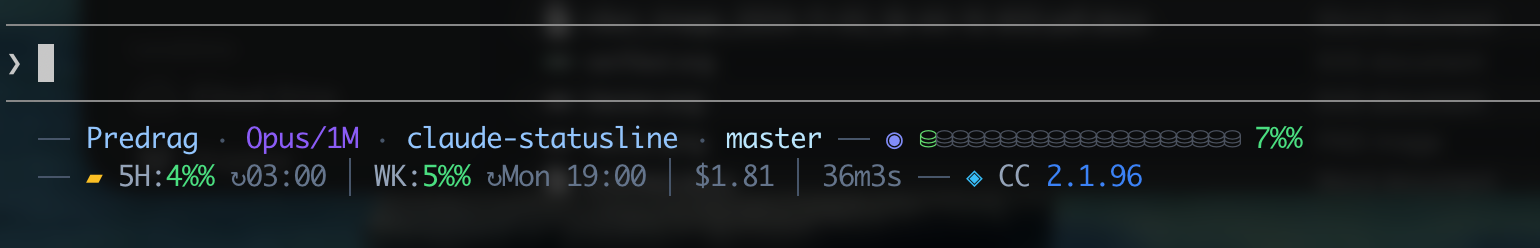
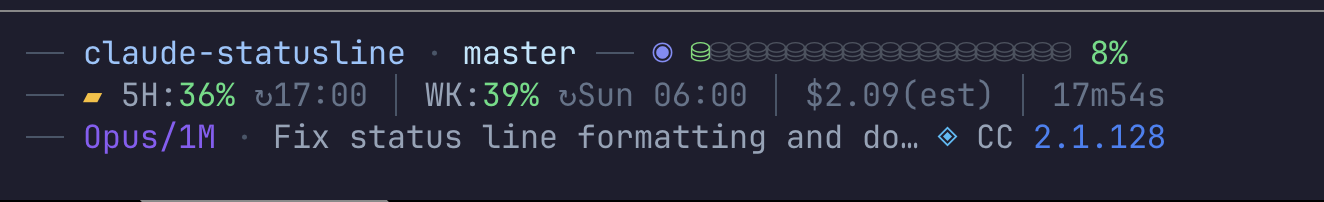
Session name is auto-truncated with ellipsis so line 3 width matches line 2, producing a clean rectangular block regardless of session name length.

diff --git a/README.md b/README.md
@@ -1,35 +1,32 @@
 # Claude Code Compact Statusline
 
-A compact 2-line status bar for [Claude Code](https://code.claude.com/docs/en/statusline) with gradient context visualization, rate limit tracking, and full session awareness.
+A compact 3-line status bar for [Claude Code](https://code.claude.com/docs/en/statusline) with gradient context visualization, rate limit tracking, and full session awareness. Line 3 is width-aligned to line 2 to form a clean rectangle.
 
 ![Claude Code Statusline](screenshot.png)
 
 ## Layout
 
-### Line 1 — Identity & Context
+### Line 1 — Project & Context
 
 ```
-── Predrag · Opus/1M · claude-statusline · master ── ◉ ⛁⛁⛁⛁⛁⛁⛁⛁░░░░░░░░░░░░ 7%
+── claude-statusline · master ── ◉ ⛁⛁⛁⛁⛁⛁⛁⛁░░░░░░░░░░░░ 7%
 ```
 
 | Element | Description |
 |---------|-------------|
-| `Predrag` | Your first name (from `id -F` on macOS, `whoami` elsewhere) |
-| `Opus/1M` | Active model short name. Appends `/1M` when context window is 1M tokens |
 | `claude-statusline` | Current project directory name |
-| `my-session` | Custom session name (only when set via `--name` or `/rename`) |
 | `master` | Git branch (shows `detached` for detached HEAD, hidden outside git repos) |
 | `wt:feature` | Active worktree name (only during `--worktree` sessions) |
 | `@security-reviewer` | Agent name (only when running with `--agent`) |
 | `NORMAL` | Vim mode (only when vim mode is enabled) |
 | `◉ ⛁⛁⛁...` | Gradient context bar — 20 buckets transitioning green to amber to red as usage grows |
-| `7%` | Context window usage percentage, color-coded: green (<40%), amber (40-59%), orange (60-79%), red (80%+) |
+| `7%` | Context window usage percentage, color-coded: green (<40%), amber (40–59%), orange (60–79%), red (80%+) |
 | Warning icon | Shown when token count exceeds 200k threshold |
 
-### Line 2 — Limits, Cost & Version
+### Line 2 — Limits, Cost & Duration
 
 ```
-── ▰ 5H:4% ↻03:00 | WK:5% ↻Mon 19:00 | $1.81 | 36m3s ── ◈ CC 2.1.96
+── ▰ 5H:4% ↻03:00 │ WK:5% ↻Mon 19:00 │ $1.81 │ 36m3s
 ```
 
 | Element | Description |
@@ -40,9 +37,22 @@ A compact 2-line status bar for [Claude Code](https://code.claude.com/docs/en/st
 | `↻Mon 19:00` | 7-day rate limit reset time (includes day of week) |
 | `$1.81(est)` / `$1.81` | Session cost in USD. Shows `(est)` suffix for Pro/Max subscribers (estimated equivalent), exact cost for API users. Hidden when $0.00 |
 | `36m3s` | Session duration (hidden at 0) |
-| `CC 2.1.96` | Claude Code version |
 
 Rate limit percentages are color-coded with the same thresholds as context usage.
+
+### Line 3 — Model, Session & Version
+
+```
+── Opus/1M · Fix status line formatting and d… ◈ CC 2.1.128
+```
+
+| Element | Description |
+|---------|-------------|
+| `Opus/1M` | Active model short name. Appends `/1M` when context window is 1M tokens |
+| `Fix status line…` | Custom session name (from `--name` or `/rename`). Truncated with `…` so line 3 width matches line 2 |
+| `◈ CC 2.1.128` | Claude Code version, anchored at the end of the line |
+
+The session name is auto-truncated based on the visible width of line 2 (rate limits + cost + duration), so the bottom two lines form a roughly rectangular block regardless of session name length.
 
 ## Install
 
@@ -70,7 +80,7 @@ chmod +x ~/.claude/statusline-command.sh
 
 - `jq` — JSON parsing (`brew install jq` / `apt install jq`)
 - `git` — optional, for branch display
-- A terminal with truecolor support (Kitty, iTerm2, WezTerm, Ghostty)
+- A terminal with truecolor support and UTF-8 locale (Kitty, iTerm2, WezTerm, Ghostty)
 
 ## Color Thresholds
 
@@ -78,10 +88,10 @@ Usage percentages (context, 5H, 7D) change color based on severity:
 
 | Range | Color |
 |-------|-------|
-| 0-39% | Green |
-| 40-59% | Amber |
-| 60-79% | Orange |
-| 80-100% | Red |
+| 0–39% | Green |
+| 40–59% | Amber |
+| 60–79% | Orange |
+| 80–100% | Red |
 
 The context bar uses a smooth gradient across all 20 buckets, transitioning from green through amber to red.
 
@@ -89,9 +99,10 @@ The context bar uses a smooth gradient across all 20 buckets, transitioning from
 
 - **Single `jq` call** — all JSON fields extracted in one pass, no `eval`
 - **Git caching** — branch lookup cached for 5 seconds per session (keyed by `session_id`)
+- **Width-aligned layout** — session name truncated to match line 2 width for a rectangular look
 - **Graceful degradation** — rate limits hidden for non-subscribers, optional fields appear only when present
-- **Portable** — works on macOS and Linux (`date`, `stat`, `id` cross-platform fallbacks)
-- **Safe input handling** — JSON parsed via here-string, no pipes, no `eval`
+- **Portable** — works on macOS and Linux (`date`, `stat`, `wc -m`, `cut` cross-platform fallbacks)
+- **Safe input handling** — JSON parsed via here-string, no pipes into `jq`, no `eval`
 - **Future-proof** — unknown model names display their full `display_name`
 
 ## Testing
@@ -99,5 +110,5 @@ The context bar uses a smooth gradient across all 20 buckets, transitioning from
 Test with mock JSON input:
 
 ```bash
-echo '{"model":{"display_name":"Opus"},"workspace":{"current_dir":"/home/user/project"},"context_window":{"used_percentage":42,"context_window_size":1000000},"session_id":"test","version":"2.1.96","cost":{"total_cost_usd":1.23,"total_duration_ms":120000},"exceeds_200k_tokens":false,"rate_limits":{"five_hour":{"used_percentage":15,"resets_at":1738425600},"seven_day":{"used_percentage":8,"resets_at":1738857600}}}' | ./statusline-command.sh
+echo '{"model":{"display_name":"Opus"},"workspace":{"current_dir":"/home/user/project"},"context_window":{"used_percentage":42,"context_window_size":1000000},"session_id":"test","session_name":"Fix status line formatting","version":"2.1.128","cost":{"total_cost_usd":1.23,"total_duration_ms":120000},"exceeds_200k_tokens":false,"rate_limits":{"five_hour":{"used_percentage":15,"resets_at":1738425600},"seven_day":{"used_percentage":8,"resets_at":1738857600}}}' | ./statusline-command.sh
 ```
